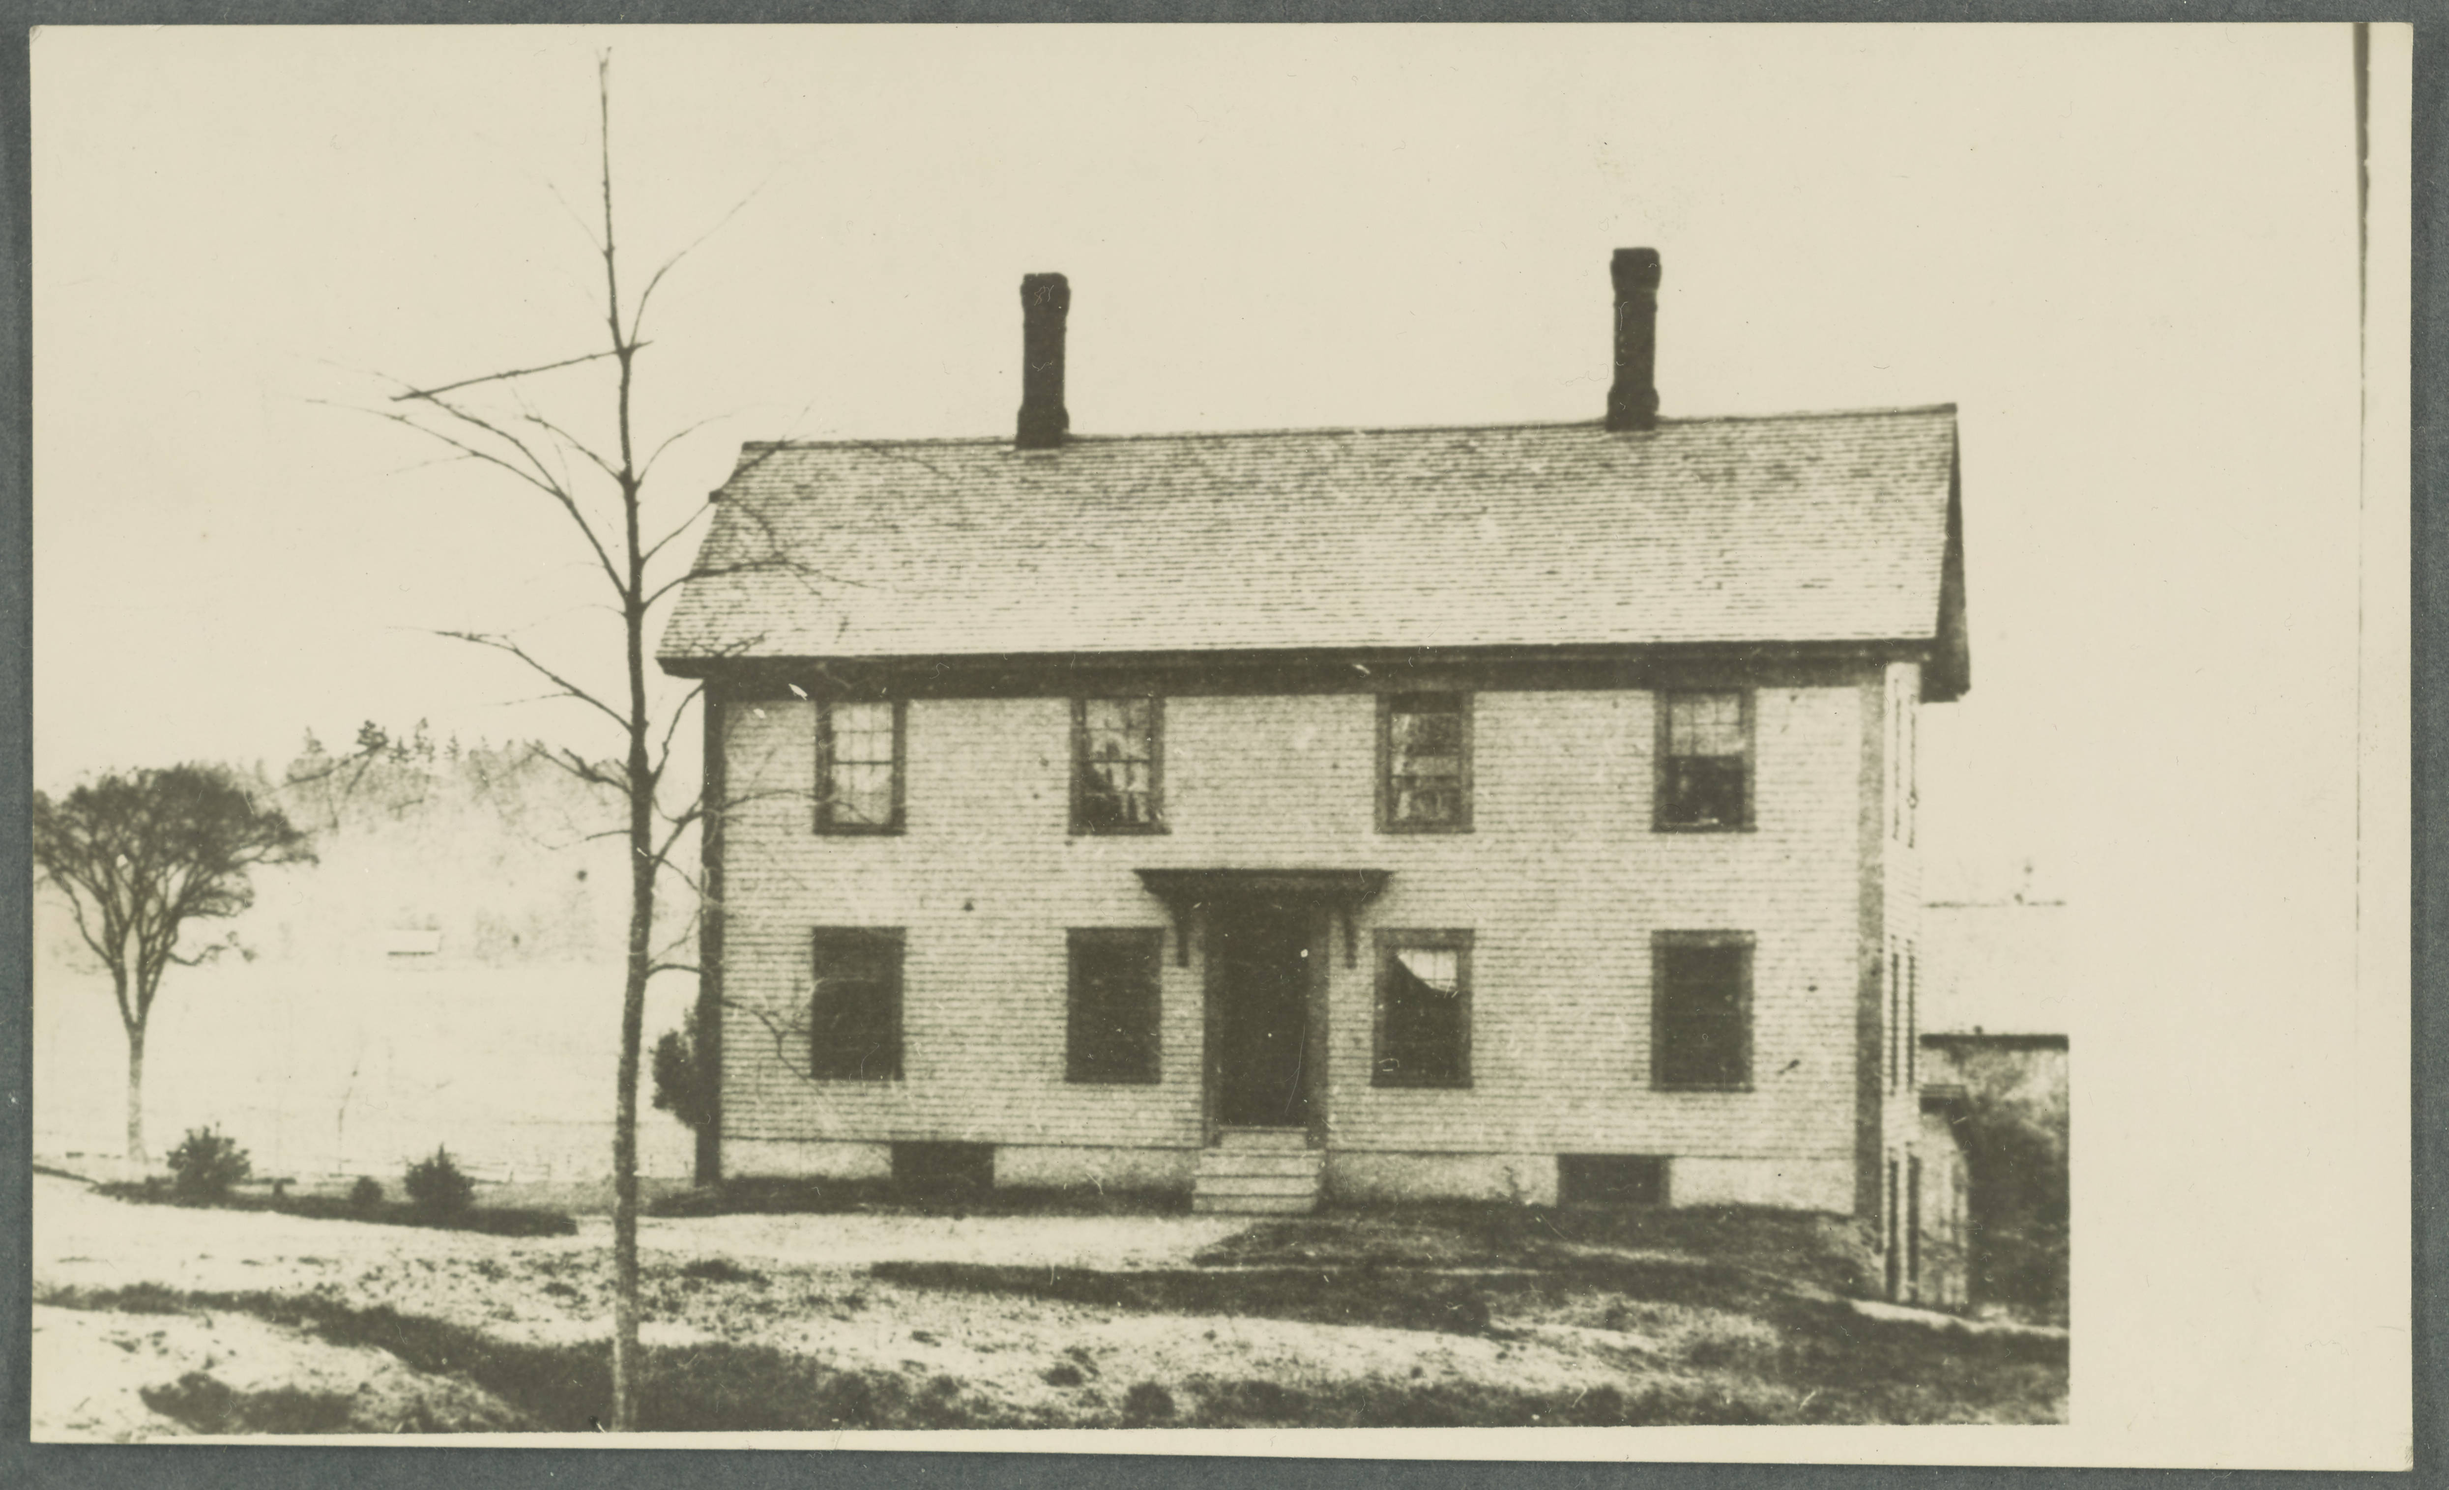
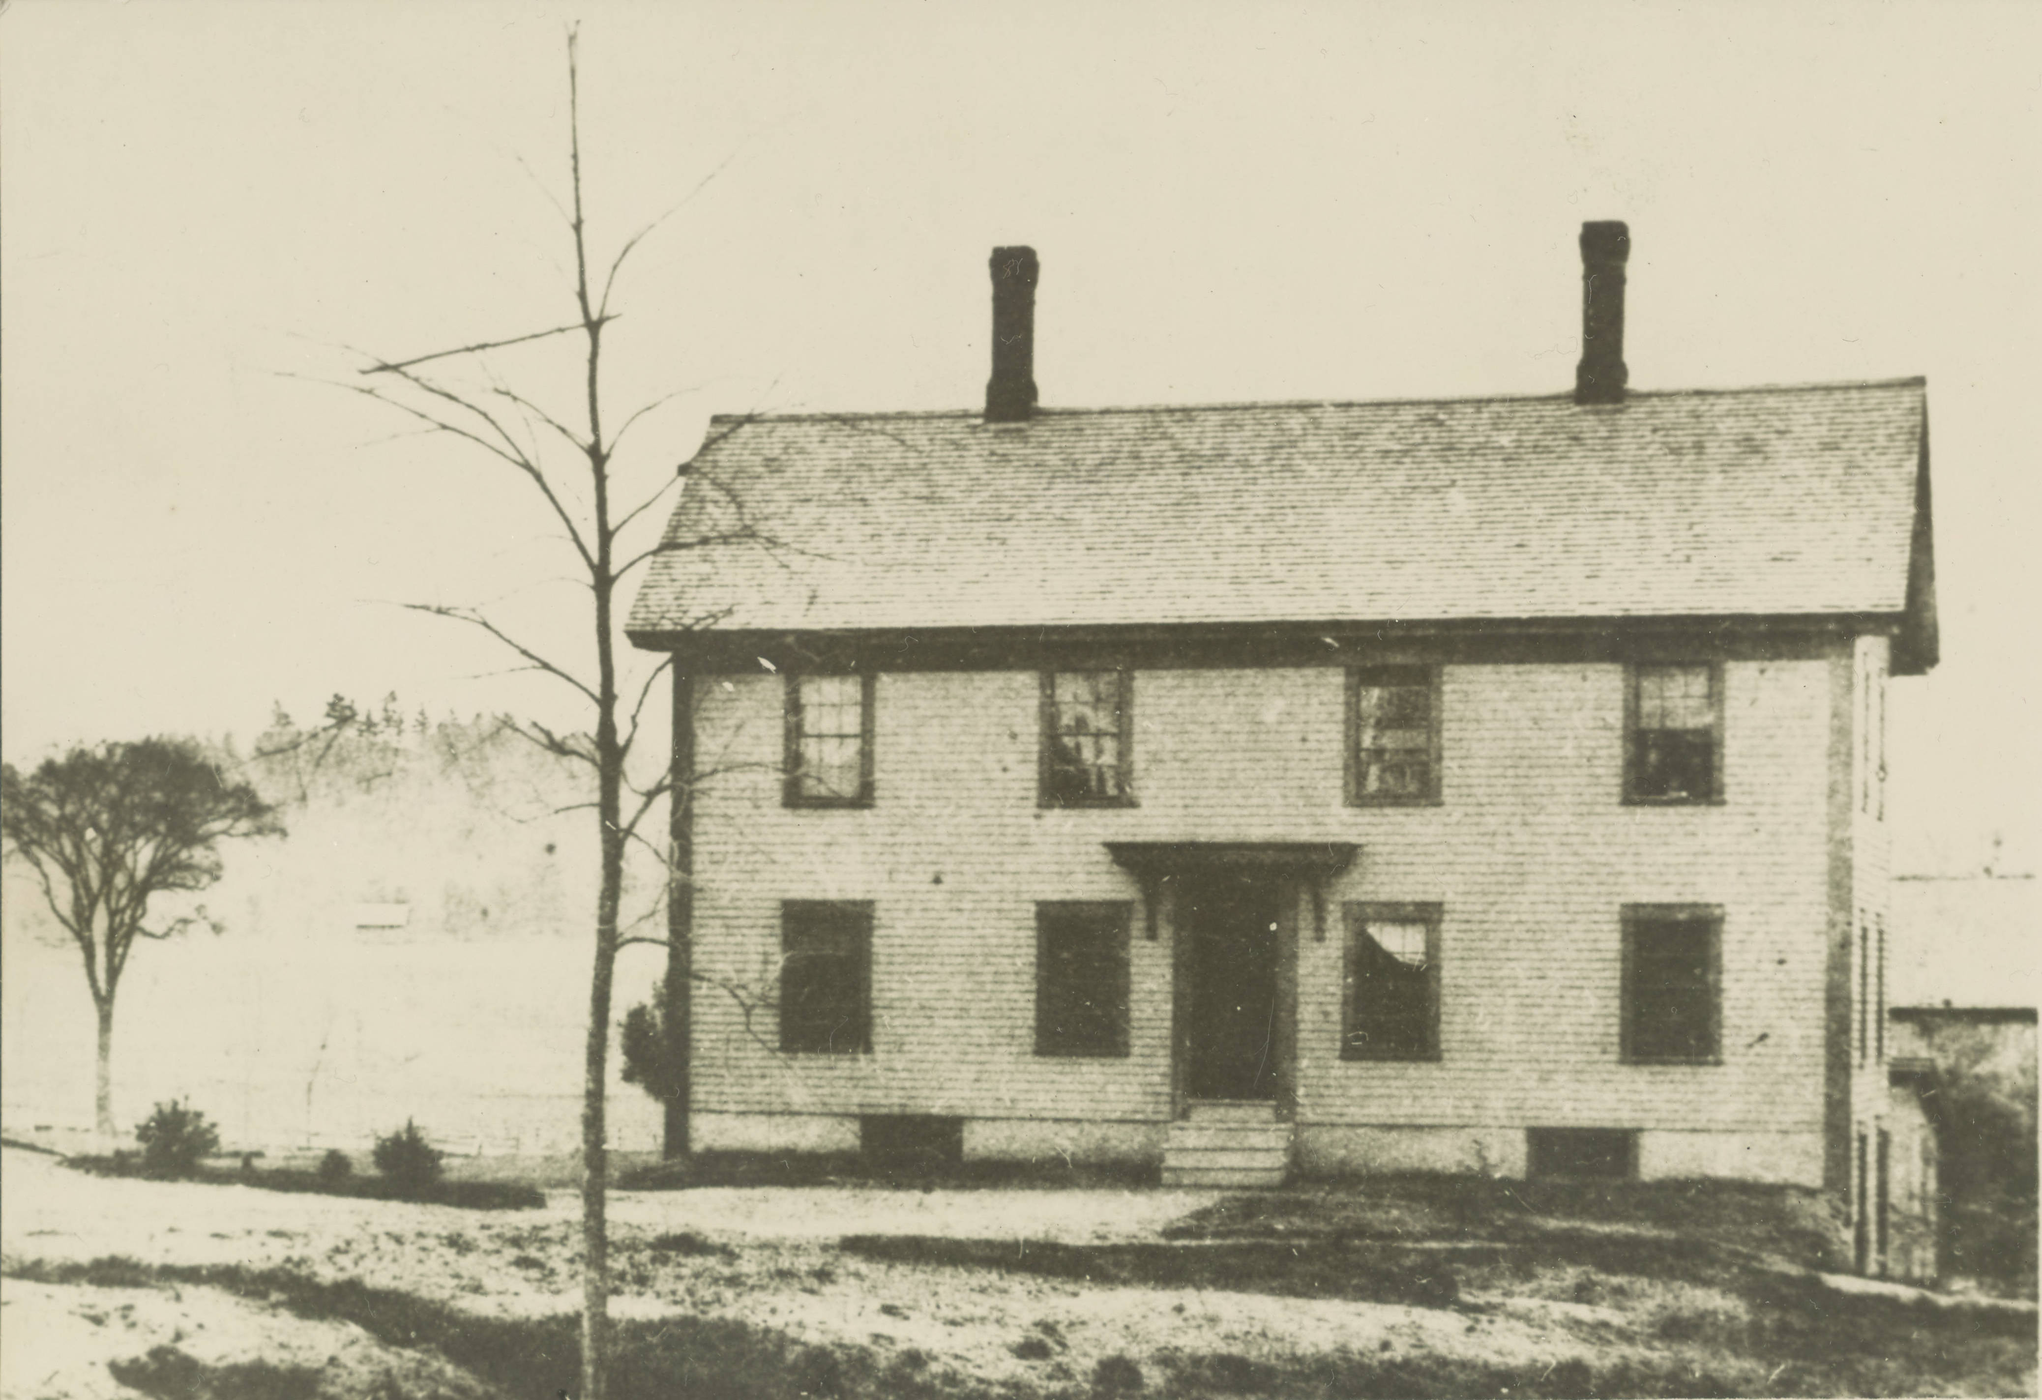
more captions

diff --git a/app/static/main2.js b/app/static/main2.js
@@ -32,11 +32,11 @@ ground_truth = {
         "shape-names": ["Dick Hall's House"]
     },
     "pest-house-1": {
-        "w": 4982,
-        "h": 3032,
-        "title": "Pest House",
-        "caption": "To be added.",
-        "citation": "To be added.",
+        "w": 4153,
+        "h": 2848,
+        "title": "Doing good: replacing Isolation Hospital. Isolation Hospital, undated.",
+        "caption": "Beyond memorializing their son, Sally and Edward Hall built Dick's House to provide students good, comfortable, and convenient health care. Previously, students recieved care in the Isolation Hospital: nicknamed Pest House and remembered for its poor conditions. In this context, Isolation Hospital's Dr. Kingsford claimed that 'Dick's House was the best thing that ever happened to Dartmouth College.'",
+        "citation": "Image: Dartmouth Digital Collections. Caption: Dartmouth Alumni Magazine, May 1948 and April 1967.",
         "shape-names": []
     }
 }
